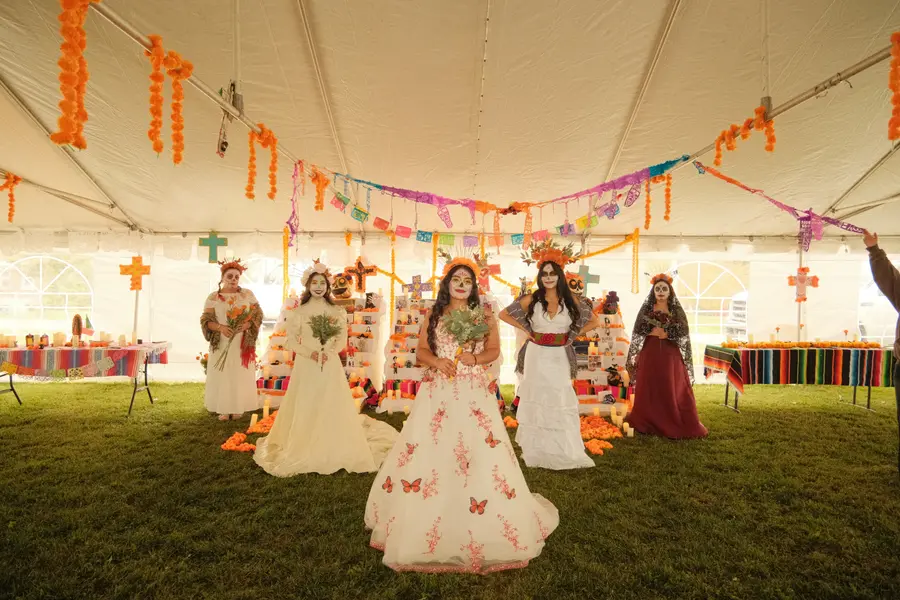
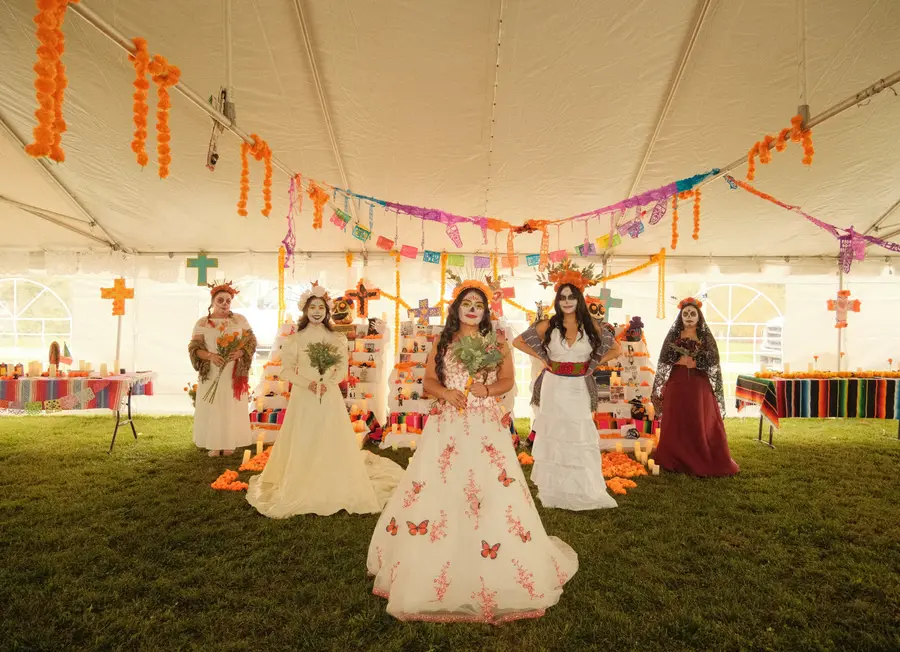
Día de los Muertos: recap polish pass, shared two-column text grid, one-line captions, tighter crops and cleaner frames
Text blocks now sit on one grid from the page's midline instead of a narrow left column. Captions run the full width, the Late morning lead no longer repeats the hero, and sky, tent ceiling, a sneaker and an arm at the hero's edge are cropped out. Also clears the header name from the Book button on phones and shortens the homepage pill.

diff --git a/src/data/ddlmRecap2026.js b/src/data/ddlmRecap2026.js
@@ -61,7 +61,6 @@ export const ddlmRecap = {
   making: {
     heading: "Three nights before",
     dateLine: "Wednesday, October 28",
-    captionTime: "Wednesday, October 28.",
     captionText:
       "Paint, paper and marigolds: the calaveras and crosses were made by hand. Phone photos from the team.",
   },
@@ -136,6 +135,8 @@ export const ddlmRecap = {
 export const ddlmSurvey = {
   url: "https://forms.cloud.microsoft/pages/responsepage.aspx?id=_0n0vIiuoUOlaC-BT6ket-YzGzMkaeJEvjvZ0LuQOb5UMk5KR0tUTDRHU1NKTTVNN1A1NzVWOFhCOS4u&origin=QRCode&route=shorturl",
   heading: "Día de los Muertos: share your feedback",
+  // Under the recap's own "Día de los Muertos" h1, the name is already there.
+  headingHero: "Share your feedback",
   body: "If you joined us at La Villita Park on Saturday or Sunday, the funder behind the weekend has a short survey for you. It takes 2 to 3 minutes and it is anonymous. Funding is how events this size happen, and this survey is how the funder sees what the weekend meant.",
   button: "Take the survey",
   note: 'On the form, choose South Lawndale, then The Latina Sweat Project presents "Fall Sweat Festival". That is how the grant lists our weekend, so the form will not say Día de los Muertos.',
@@ -158,8 +159,9 @@ export const ddlmSurvey = {
 // frames; `layout` is "justified" (default) or "full". Every row fills the
 // page's width and the moment's caption prints once, above its first row: no
 // side captions, no row with empty space beside it. `phoneY` is the
-// object-position y for portraits on phones (4:5 crop). `alt` describes the
-// scene and never names anyone.
+// object-position y for portraits on phones (4:5 crop); `y` is the same above
+// phones, and `crop` an aspect that trims empty sky or tent ceiling (see
+// DdlmStory.astro). `alt` describes the scene and never names anyone.
 //
 // Rules: no child in a lead position; the kids yoga frames show children from
 // behind or small in a wide frame, and are never "full". Ofrendas carry
@@ -167,12 +169,12 @@ export const ddlmSurvey = {
 // crops in on one. Sunday frames are `{ sun: "<stem>" }` from ddlmSundayPhotos; DdlmStory.astro
 // fails the build if a Sunday row names a Saturday stem.
 export const ddlmStory = {
-  making: ["IMG_1156", "IMG_1146", "IMG_1155", "IMG_1138"],
+  making: ["IMG_1156", "IMG_1146", "IMG_1155", "IMG_1126"],
   makingAlt: {
     IMG_1156: "A gold calavera with marigold eyes.",
     IMG_1146: "A red cross with a heart, held up.",
     IMG_1155: "Orange and white calaveras on a chair.",
-    IMG_1138: "A green cross with a yellow flower.",
+    IMG_1126: "Two people painting at a table covered in paper crosses, paint and marigolds.",
   },
   saturday: [
     {
@@ -188,7 +190,7 @@ export const ddlmStory = {
         {
           frames: [
             { t: "65535/55623993918_47231b697b", alt: "A bunch of marigolds, close up." },
-            { t: "65535/55624277175_661a3d0a73", phoneY: 50, alt: "Marigolds laid on the grass in the shape of a cross, with candles around them." },
+            { t: "65535/55624277175_661a3d0a73", crop: 0.8, y: 0, phoneY: 0, alt: "Marigolds laid on the grass in the shape of a cross, with candles around them." },
           ],
         },
       ],
@@ -199,8 +201,8 @@ export const ddlmStory = {
       rows: [
         {
           frames: [
-            { t: "65535/55624065799_e48302780c", alt: "The kids yoga class spread across the grass under the tent, mats and families seen from the side." },
-            { t: "65535/55622856732_867ce6b02c", alt: "The kids yoga class seen from behind, facing the leaders at the front, marigold strands hanging from the tent." },
+            { t: "65535/55624065799_e48302780c", crop: 2.4, y: 100, alt: "The kids yoga class spread across the grass under the tent, mats and families seen from the side." },
+            { t: "65535/55622856732_867ce6b02c", crop: 1.8, y: 70, alt: "The kids yoga class seen from behind, facing the leaders at the front, marigold strands hanging from the tent." },
           ],
         },
       ],
@@ -212,25 +214,25 @@ export const ddlmStory = {
         {
           layout: "full",
           frames: [
-            { t: "65535/55624280325_2d20225f4f", alt: "Trumpet and clarinet players from the band on the grass outside the tent." },
+            { t: "65535/55624280325_2d20225f4f", crop: 2.25, y: 100, alt: "Trumpet and clarinet players from the band on the grass outside the tent." },
           ],
         },
         {
           layout: "full",
           frames: [
-            { t: "65535/55623990868_af1f7cc8f7", alt: "The whole band standing under the big tent." },
+            { t: "65535/55623990868_af1f7cc8f7", crop: 2.25, y: 82, alt: "The whole band standing under the big tent." },
           ],
         },
       ],
     },
     {
       time: "11:00 AM to 12:30 PM",
-      text: "Farmers market and trick or treat, warm meals from OrganicLife, fresh fruits and vegetables from Sharing Excess.",
+      text: "Farmers market and trick or treat, warm meals from OrganicLife, produce from Sharing Excess.",
       rows: [
         {
           layout: "full",
           frames: [
-            { t: "65535/55623993738_fd47afe43f", alt: "The produce line under the canopies, a queue along the boxes." },
+            { t: "65535/55623993738_fd47afe43f", y: 85, alt: "The produce line under the canopies, a queue along the boxes." },
           ],
         },
         {
@@ -249,7 +251,7 @@ export const ddlmStory = {
         {
           layout: "full",
           frames: [
-            { t: "65535/55623852581_769b00f5d9", alt: "Five catrinas in the tent facing the camera, papel picado above them." },
+            { t: "65535/55623990598_9f924b3ede", crop: 2.25, y: 83, alt: "Catrinas and friends in street clothes standing together under the tent, the ofrenda behind them." },
           ],
         },
         {
@@ -273,7 +275,7 @@ export const ddlmStory = {
         {
           layout: "full",
           frames: [
-            { t: "65535/55623850661_2ecae643a1", alt: "The whole tent: people on mats, the crowd at the back, the altar table in the foreground." },
+            { t: "65535/55623850661_2ecae643a1", y: 100, alt: "The whole tent: people on mats, the crowd at the back, the altar table in the foreground." },
           ],
         },
         {

diff --git a/src/data/fallEvents.js b/src/data/fallEvents.js
@@ -479,6 +479,8 @@ export const ddlmWeekend = {
     {
       // English first (Fez's standing rule), Spanish as the accent.
       label: "Music and dance",
+      // Round and script marks: they need more height to match the wide logos.
+      tall: true,
       labelEs: "música y danza",
       caption: null,
       items: [
